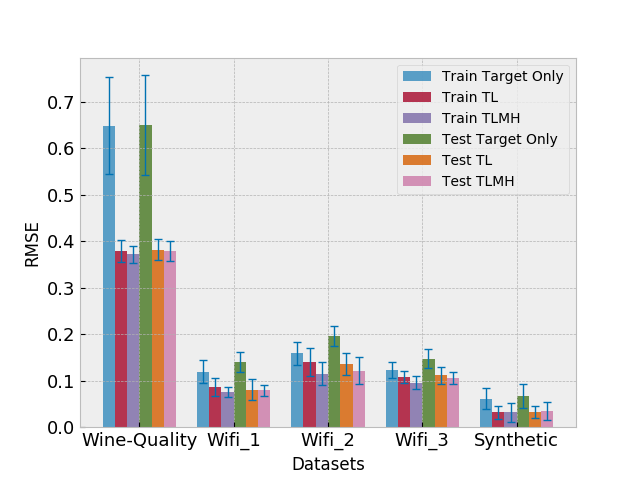
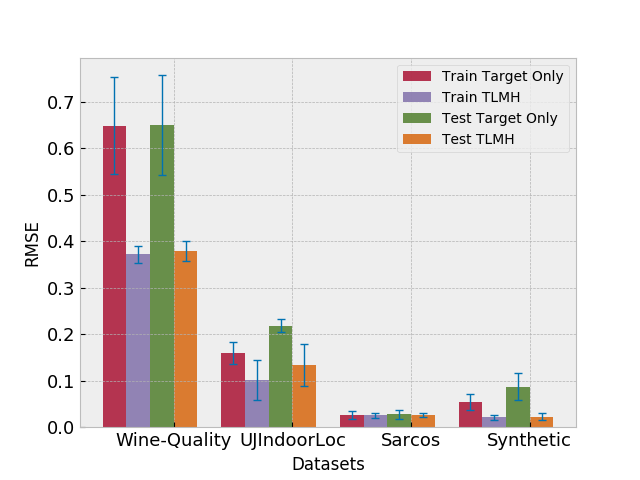
barplot code updated

Changed region(s): [[0.125, 0.1562, 0.9062, 0.9375], [0.625, 0.125, 0.875, 0.4062]]

diff --git a/mcmc-transfer-learning/bntl.py b/mcmc-transfer-learning/bntl.py
@@ -693,6 +693,18 @@ class TransferLearningMCMC(object):
 
         burnin = int(0.1 * self.samples)
 
+        for index in range(self.numSources):
+            ax = plt.subplot(111)
+            x = np.array(np.arange(burnin, self.samples))
+            plt.plot(x, self.rmse_train[burnin: , index], '.' , label="train")
+            plt.plot(x, self.rmse_test[burnin: , index], '.' , label="test")
+            plt.legend()
+            plt.xlabel('Samples')
+            plt.ylabel('RMSE')
+            plt.title(dataset+' Source '+str(index+1)+' RMSE')
+            plt.savefig(self.directory+'/results/rmse-source-'+str(index+1)+'.png')
+            plt.clf()
+
         ax = plt.subplot(111)
         x = np.array(np.arange(burnin, self.samples))
         plt.plot(x, self.rmse_target_train[burnin: ], '.' , label="no-transfer")
@@ -701,7 +713,7 @@ class TransferLearningMCMC(object):
         plt.xlabel('Samples')
         plt.ylabel('RMSE')
         plt.title(dataset+' Train RMSE')
-        plt.savefig(self.directory+'/results/rmse-'+dataset+'train-mcmc.png')
+        plt.savefig(self.directory+'/results/rmse-target-train-mcmc.png')
         plt.clf()
 
 
@@ -712,7 +724,7 @@ class TransferLearningMCMC(object):
         plt.xlabel('Samples')
         plt.ylabel('RMSE')
         plt.title(dataset+' Test RMSE')
-        plt.savefig(self.directory+'/results/rmse-'+dataset+'test-mcmc.png')
+        plt.savefig(self.directory+'/results/rmse-target-test-mcmc.png')
         plt.clf()
 # ------------------------------------------------------- Main --------------------------------------------------------
 
@@ -724,9 +736,9 @@ if __name__ == '__main__':
     output = [10, 2, 1, 1]
     numSources = [1, 3, 1, 5]
     type = {0:'classification', 1:'regression', 2:'regression', 3:'regression'}
-    numSamples = [6500, 8000, 4000, 8000]
+    numSamples = [6500, 6000, 4000, 8000]
 
-    problem = 0
+    problem = 1
     problemtype = type[problem]
     topology = [input[problem], hidden[problem], output[problem]]
     problem_name = name[problem]
@@ -735,7 +747,6 @@ if __name__ == '__main__':
 
     #--------------------------------------------- Train for the source task -------------------------------------------
 
-    # print(np.around(np.linspace(0.005, 0.1, 20), decimals=3))
     stdscr = None
     stdscr = curses.initscr()
     curses.noecho()
@@ -745,26 +756,26 @@ if __name__ == '__main__':
 
     try:
         # stdscr.clear()
-        targettraindata = np.genfromtxt('../datasets/WineQualityDataset/preprocess/winequality-red-train.csv', delimiter=',')
-        targettestdata = np.genfromtxt('../datasets/WineQualityDataset/preprocess/winequality-red-test.csv', delimiter=',')
-        # targettraindata = np.genfromtxt('../../datasets/UJIndoorLoc/targetData/0train.csv', delimiter=',')[:, :-2]
-        # targettestdata = np.genfromtxt('../../datasets/UJIndoorLoc/targetData/0test.csv', delimiter=',')[:, :-2]
+        # targettraindata = np.genfromtxt('../datasets/WineQualityDataset/preprocess/winequality-red-train.csv', delimiter=',')
+        # targettestdata = np.genfromtxt('../datasets/WineQualityDataset/preprocess/winequality-red-test.csv', delimiter=',')
+        targettraindata = np.genfromtxt('../datasets/UJIndoorLoc/targetData/0train.csv', delimiter=',')[:, :-2]
+        targettestdata = np.genfromtxt('../datasets/UJIndoorLoc/targetData/0test.csv', delimiter=',')[:, :-2]
         # targettraindata = np.genfromtxt('../../datasets/synthetic_data/target_train.csv', delimiter=',')
         # targettestdata = np.genfromtxt('../../datasets/synthetic_data/target_test.csv', delimiter=',')
-        # targettraindata = np.genfromtxt('../../datasets/Sarcos/target_train.csv', delimiter=',')
-        # targettestdata = np.genfromtxt('../../datasets/Sarcos/target_test.csv', delimiter=',')
+        # targettraindata = np.genfromtxt('../datasets/Sarcos/target_train.csv', delimiter=',')
+        # targettestdata = np.genfromtxt('../datasets/Sarcos/target_test.csv', delimiter=',')
 
         traindata = []
         testdata = []
         for i in range(numSources[problem]):
-            traindata.append(np.genfromtxt('../datasets/WineQualityDataset/preprocess/winequality-white-train.csv', delimiter=','))
-            testdata.append(np.genfromtxt('../datasets/WineQualityDataset/preprocess/winequality-red-test.csv', delimiter=','))
-            # traindata.append(np.genfromtxt('../../datasets/UJIndoorLoc/sourceData/'+str(i)+'train.csv', delimiter=',')[:, :-2])
-            # testdata.append(np.genfromtxt('../../datasets/UJIndoorLoc/targetData/'+str(i)+'test.csv', delimiter=',')[:, :-2])
+            # traindata.append(np.genfromtxt('../datasets/WineQualityDataset/preprocess/winequality-white-train.csv', delimiter=','))
+            # testdata.append(np.genfromtxt('../datasets/WineQualityDataset/preprocess/winequality-red-test.csv', delimiter=','))
+            traindata.append(np.genfromtxt('../datasets/UJIndoorLoc/sourceData/'+str(i)+'train.csv', delimiter=',')[:, :-2])
+            testdata.append(np.genfromtxt('../datasets/UJIndoorLoc/sourceData/'+str(i)+'test.csv', delimiter=',')[:, :-2])
             # traindata.append(np.genfromtxt('../../datasets/synthetic_data/source'+str(i+1)+'.csv', delimiter=','))
             # testdata.append(np.genfromtxt('../../datasets/synthetic_data/target_test.csv', delimiter=','))
-            # traindata.append(np.genfromtxt('../../datasets/Sarcos/source.csv', delimiter=','))
-            # testdata.append(np.genfromtxt('../../datasets/Sarcos/target_test.csv', delimiter=','))
+            # traindata.append(np.genfromtxt('../datasets/Sarcos/source.csv', delimiter=','))
+            # testdata.append(np.genfromtxt('../datasets/Sarcos/target_test.csv', delimiter=','))
             pass
 
         # stdscr.clear()

diff --git a/mcmc-transfer-learning/barplot.py b/mcmc-transfer-learning/barplot.py
@@ -10,30 +10,24 @@ mpl.rc('xtick', labelsize=13)
 mpl.rc('ytick', labelsize=13)
 
 
-datasets = ['Wine-Quality', 'Wifi_1', 'Wifi_2', 'Wifi_3', 'Synthetic']
+datasets = ['Wine-Quality', 'UJIndoorLoc', 'Sarcos', 'Synthetic']
 
-train_rmse = [0.64882,  0.11975, 0.15857, 0.12329, 0.06082]
-train_std = [0.10496, 0.02414, 0.02525,  0.01732,  0.02253]
+train_rmse = [0.64882, 0.15981, 0.02692, 0.05383]
+train_std = [0.10496, 0.02315, 0.00879, 0.01654]
 
-train_rmse_tl = [0.38000, 0.08620, 0.14002, 0.10837, 0.03229]
-train_std_tl = [0.02372, 0.01866, 0.03052, 0.01316, 0.01391]
+test_rmse = [0.65032, 0.21840, 0.02757, 0.08727]
+test_std = [0.10701, 0.01424, 0.00889, 0.02901]
 
-train_rmse_mh =[0.37225, 0.07596, 0.11516, 0.09571, 0.03218]
-train_std_mh = [0.01866, 0.01149, 0.02520, 0.01386, 0.02012]
+train_rmse_mh =[0.37225, 0.10111, 0.02549, 0.02107]
+train_std_mh = [0.01866, 0.04320, 0.00477, 0.00593]
 
-test_rmse = [0.65032, 0.14012, 0.19624, 0.14764, 0.06728]
-test_std = [0.10701, 0.02082, 0.02075,  0.02094, 0.02662]
-
-test_rmse_tl = [0.38194, 0.08058, 0.13594, 0.11176, 0.03254]
-test_std_tl = [0.02315, 0.02225, 0.02283,  0.01837, 0.01364]
-
-test_rmse_mh = [0.37908, 0.07904, 0.12152, 0.10617 , 0.03466]
-test_std_mh = [0.02225, 0.01108, 0.02896,  0.01222, 0.01906]
+test_rmse_mh = [0.37908, 0.13446, 0.02636, 0.02266]
+test_std_mh = [0.02225, 0.04481, 0.00482, 0.00719]
 
 n_groups = len(datasets)
 fig, ax = plt.subplots()
 index = np.arange(n_groups)
-bar_width = 0.13
+bar_width = 0.20
 opacity = 0.8
 capsize = 3
 
@@ -41,18 +35,13 @@ capsize = 3
 plt.bar(index + float(bar_width)/2, train_rmse, bar_width,
                 alpha = opacity,
                 error_kw = dict(elinewidth=1, ecolor='C9', capsize=capsize),
-                color = 'C0',
+                color = 'C1',
                 yerr = train_std,
                 label = 'Train Target Only')
 
-plt.bar(index + float(bar_width)/2 + bar_width, train_rmse_tl, bar_width,
-                alpha = opacity,
-                error_kw = dict(elinewidth=1, ecolor='C9', capsize=capsize),
-                color = 'C1',
-                yerr = train_std_tl,
-                label = 'Train TL')
 
-plt.bar(index + float(bar_width)/2 + 2*bar_width, train_rmse_mh, bar_width,
+
+plt.bar(index + float(bar_width)/2 + bar_width, train_rmse_mh, bar_width,
                 alpha = opacity,
                 error_kw = dict(elinewidth=1, ecolor='C9', capsize=capsize),
                 color = 'C2',
@@ -62,24 +51,18 @@ plt.bar(index + float(bar_width)/2 + 2*bar_width, train_rmse_mh, bar_width,
 
 
 
-plt.bar(index + float(bar_width)/2 + 3 * bar_width, test_rmse, bar_width,
+plt.bar(index + float(bar_width)/2 + 2 * bar_width, test_rmse, bar_width,
                 alpha = opacity,
                 error_kw = dict(elinewidth=1, ecolor='C9', capsize=capsize),
                 color = 'C3',
                 yerr = test_std,
                 label = 'Test Target Only')
 
-plt.bar(index + float(bar_width)/2 + 4 * bar_width , test_rmse_tl, bar_width,
+
+plt.bar(index + float(bar_width)/2 + 3 * bar_width , test_rmse_mh, bar_width,
                 alpha = opacity,
                 error_kw = dict(elinewidth=1, ecolor='C9', capsize=capsize),
                 color = 'C4',
-                yerr = test_std_tl,
-                label = 'Test TL')
-
-plt.bar(index + float(bar_width)/2 + 5 * bar_width , test_rmse_mh, bar_width,
-                alpha = opacity,
-                error_kw = dict(elinewidth=1, ecolor='C9', capsize=capsize),
-                color = 'C5',
                 yerr = test_std_mh,
                 label = 'Test TLMH')
 

diff --git a/mcmc-transfer-learning/results.py b/mcmc-transfer-learning/results.py
@@ -1,0 +1,25 @@
+import numpy as np
+
+path = input('Enter the path: ')
+print('train_mu\tstdtrain\ttest_mu\t\tstdtest\t\ttrain_trf_mu\tstdtrain_trf\ttest_trf_mu\tstdtest_trf')
+
+rmsetrain_trf = np.genfromtxt(path+'/targettrftrainrmse.csv')
+rmsetest_trf = np.genfromtxt(path+'/targettrftestrmse.csv')
+
+burnin = int(0.1 * rmsetrain_trf.shape[0])
+stdtrain_trf = rmsetrain_trf[burnin: ].std(axis=0)
+stdtest_trf = rmsetest_trf[burnin: ].std(axis=0)
+rmsetrain_trf_mu = rmsetrain_trf[burnin: ].mean(axis=0)
+rmsetest_trf_mu = rmsetest_trf[burnin: ].mean(axis=0)
+
+
+# rmse and std for w/o transfer results
+rmsetrain = np.genfromtxt(path+'/targettrainrmse.csv')
+rmsetest = np.genfromtxt(path+'/targettestrmse.csv')
+burnin = int(0.1 * rmsetrain.shape[0])
+stdtrain = rmsetrain[burnin: ].std(axis=0)
+stdtest = rmsetest[burnin: ].std(axis=0)
+rmsetrain_mu = rmsetrain[burnin: ].mean(axis=0)
+rmsetest_mu = rmsetest[burnin: ].mean(axis=0)
+
+print('\t\t'.join(["%0.5f" % val for val in [rmsetrain_mu, stdtrain, rmsetest_mu, stdtest, rmsetrain_trf_mu, stdtrain_trf, rmsetest_trf_mu, stdtest_trf]]))
